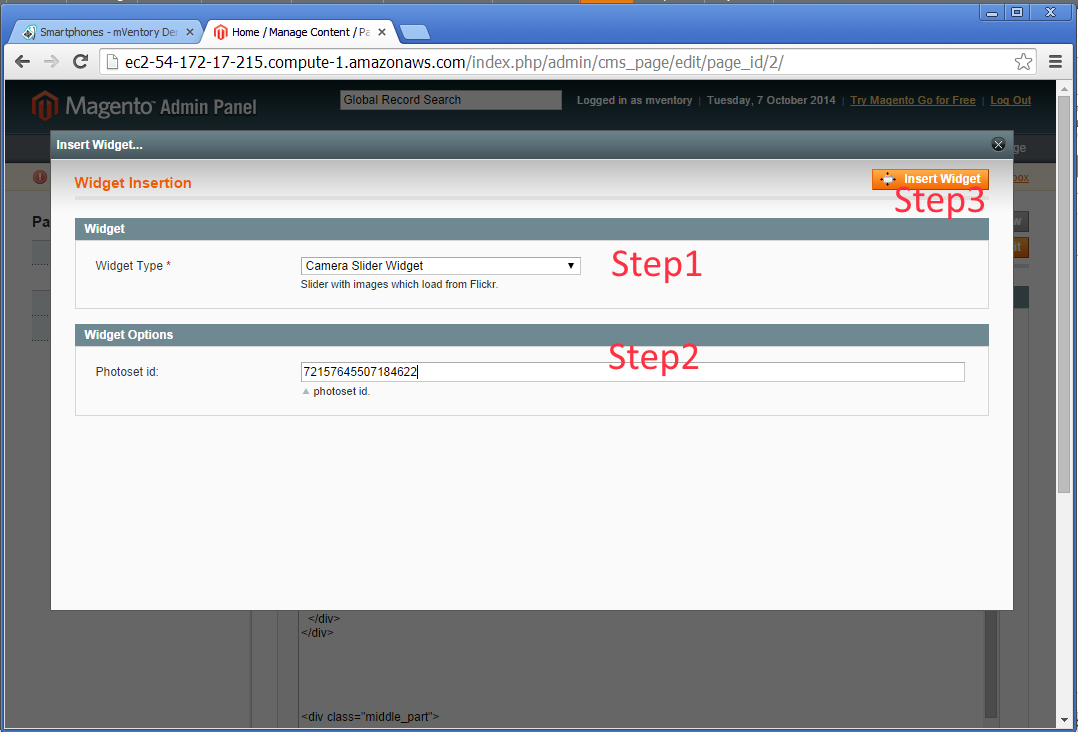
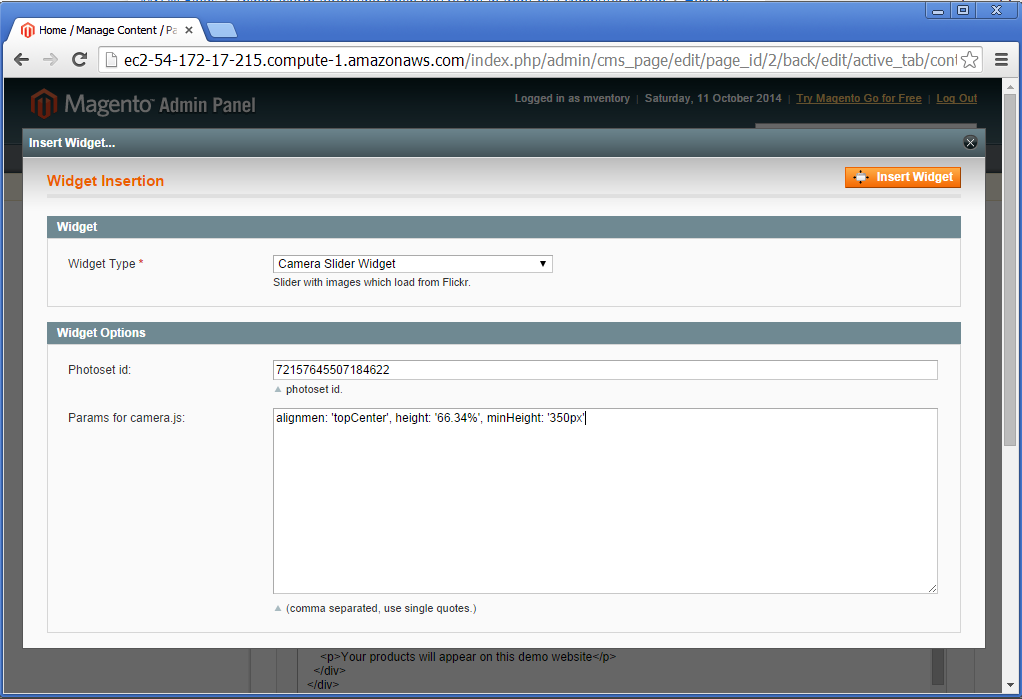
ref http://rm.mventory.com/issues/1846 Allow adding a string with any params for the slideshow via the widget.

diff --git a/UICameraSliderWidget/js/camera/camera.getImageSizes.js b/UICameraSliderWidget/js/camera/camera.getImageSizes.js
@@ -27,7 +27,7 @@
 * @param API_KEY 
 * @param $slides element
 */
-function getFlickrFotoByPhotoId(fotoId, approximateWidth, API_KEY, $slides){
+function getFlickrFotoByPhotoId(photo, approximateWidth, API_KEY, $slides){
           
           
           jQuery.ajax({type: "GET",url: "https://api.flickr.com/services/rest/?jsoncallback=?",
@@ -36,7 +36,7 @@ function getFlickrFotoByPhotoId(fotoId, approximateWidth, API_KEY, $slides){
                   data: {
                         method: "flickr.photos.getSizes",
                         api_key: API_KEY,
-                        photo_id: fotoId ,
+                        photo_id: photo.id ,
                         format: "json"
                       }
                 })
@@ -65,8 +65,29 @@ function getFlickrFotoByPhotoId(fotoId, approximateWidth, API_KEY, $slides){
                             }
                         });
                         
-                        /// do something with $url !! 
-                        jQuery('<div>', { 'data-src': url }).appendTo($slides);
+                        /// populate
+                        el= jQuery('<div>', { 'data-src': url,
+                                        });//.appendTo($slides);
+                        
+                        if(showdesc && photo.description && photo.description._content) {
+                              
+                              desc = photo.description._content;
+                              var links = desc.match(/\b(http|https)?(:\/\/)?(\S*)\.(\w{2,4})\b/ig);
+                              if(links && links[0]){
+                                    el.attr('data-link',links[0] );
+                              }
+                              jQuery('<div>', {'class':"slide-desc-text",
+                                        'style':"",
+                                        'text': desc}).appendTo(el);
+                        }     
+                        
+                        if(showtitle){
+                              title=jQuery('<div>', {'class':"slide-title-text",
+                                               'style':"",
+                                              'text': photo.title}).appendTo(el);
+                        }
+                        
+                        el.appendTo($slides);
                 });
 }
 

diff --git a/UICameraSliderWidget/js/camera/demo.html b/UICameraSliderWidget/js/camera/demo.html
@@ -21,7 +21,8 @@
 var API_KEY = "7372f9055f3f8555be03b8435f974ad0";
 
 var $slides = jQuery('#slides');
-
+var showtitle=false;
+var showdesc=false;
              
 jQuery.ajax({type: "GET",url: "https://api.flickr.com/services/rest/?jsoncallback=?",
                 dataType: "json",
@@ -30,15 +31,15 @@ jQuery.ajax({type: "GET",url: "https://api.flickr.com/services/rest/?jsoncallbac
                       method: "flickr.photosets.getPhotos",
                       api_key: API_KEY,
                       photoset_id: "72157645507184622",
-                      extras: "url_o",
+                      extras: "url_o, description",
                       format: "json"
                 },
       })
       .done(function(data){             
                 photos = data.photoset.photo;
                 jQuery.each(photos, function(i,_photo) {
-                      
-                        getFlickrFotoByPhotoId( _photo.id, $slides.width(), API_KEY, $slides );
+                        
+                        getFlickrFotoByPhotoId( _photo, $slides.width(), API_KEY, $slides );
                 });
       });
   
@@ -57,8 +58,12 @@ jQuery(window).load(function(){
           thumbnails: false,
           playPause: false
         });
-});
-             
+        
+        
+          
+          
+        
+});            
               
 
 

diff --git a/UICameraSliderWidget/app/code/community/MVentory/UICameraSliderWidget/Block/Slider.php b/UICameraSliderWidget/app/code/community/MVentory/UICameraSliderWidget/Block/Slider.php
@@ -29,11 +29,31 @@ class MVentory_UICameraSliderWidget_Block_Slider extends Mage_Core_Block_Abstrac
       $enabled = Mage::getStoreConfig('camerasliderwidget/group1/isenabled');
       $apiKey = Mage::getStoreConfig('camerasliderwidget/group1/flickr_key');
       $photosetId = $this->getPhotosetId();
-        #Mage::log($apiKey);
+      
         
       if(empty($enabled)){
           return;
       }
+      
+      ///parameters for camerajs
+      $cameraparams = $this->getparamsstring();
+      $cameraparams = explode(",", $cameraparams);
+      $paramsstr ="";
+      $title="";
+      $description="";
+      foreach($cameraparams as $_param){
+          $pair = explode(":",$_param);
+          if(trim($pair[0]," '")=="title"){
+            $title = true;
+            continue;
+          }
+          if(trim($pair[0]," '")=="description"){
+            $description = true;
+            continue;
+          }
+          $paramsstr.= trim($_param) .",";
+      }
+      
         
       $html ='<div id="slides" class="" ></div>
 
@@ -41,7 +61,8 @@ class MVentory_UICameraSliderWidget_Block_Slider extends Mage_Core_Block_Abstrac
 
               var API_KEY = \''. $apiKey .'\';
               var $slides = jQuery("#slides");
-                           
+              var showtitle='.(!empty($title)?'true;':"false").';
+              var showdesc='.(!empty($description)?'true;':"false").';
               jQuery.ajax({type: "GET",url: "https://api.flickr.com/services/rest/?jsoncallback=?",
                               dataType: "json",
                               async: false,
@@ -49,7 +70,7 @@ class MVentory_UICameraSliderWidget_Block_Slider extends Mage_Core_Block_Abstrac
                                     method: "flickr.photosets.getPhotos",
                                     api_key: API_KEY,
                                     photoset_id: \''. $photosetId .'\',
-                                    extras: "url_o",
+                                    extras: "url_o, description",
                                     format: "json"
                               },
                     })
@@ -57,7 +78,7 @@ class MVentory_UICameraSliderWidget_Block_Slider extends Mage_Core_Block_Abstrac
                               photos = data.photoset.photo;
                               jQuery.each(photos, function(i,_photo) {
                                     
-                                      getFlickrFotoByPhotoId( _photo.id, $slides.width(), API_KEY, $slides );
+                                      getFlickrFotoByPhotoId( _photo, $slides.width(), API_KEY, $slides );
                               });
                     });
                 
@@ -74,7 +95,9 @@ class MVentory_UICameraSliderWidget_Block_Slider extends Mage_Core_Block_Abstrac
                       navigationHover:false,
                       navigation: true,
                       thumbnails: false,
-                      playPause: false
+                      playPause: false,
+                      '.$paramsstr.'
+                      
                     });
               });
                            

diff --git a/UICameraSliderWidget/README.md b/UICameraSliderWidget/README.md
@@ -10,6 +10,7 @@
 2. Go to backend System > Configuration > Camera Slider Widget, and write your Flickr API KEY. Select enable if not already so.
 3. Go to CMS > Pages > Home page > Content and click the insert widget button. A dialog will appear, select "Camera slider widget" from the list, then enter your desired photosetId (from Flickr) and finally click Insert Widget. If viewing the Content tab in text mode you should now see a line like {{widget type="camerasliderwidget/slider" photoset_id="721576....."}}. Save the page.
 4. Go to the homepage of your site, the slider should now be visible.
+5. If you want to pass camera.js parameters add them as comma separated values. Eg: alignment: 'topCenter', height: '66.34%', minHeight: '350px' and use single quotes. You can pass title:'' or description:'' to make them visible.
 
 
 ![alt tag](https://raw.githubusercontent.com/mVentory/MVentory_UI/master/UICameraSliderWidget/screenshot1.png)
